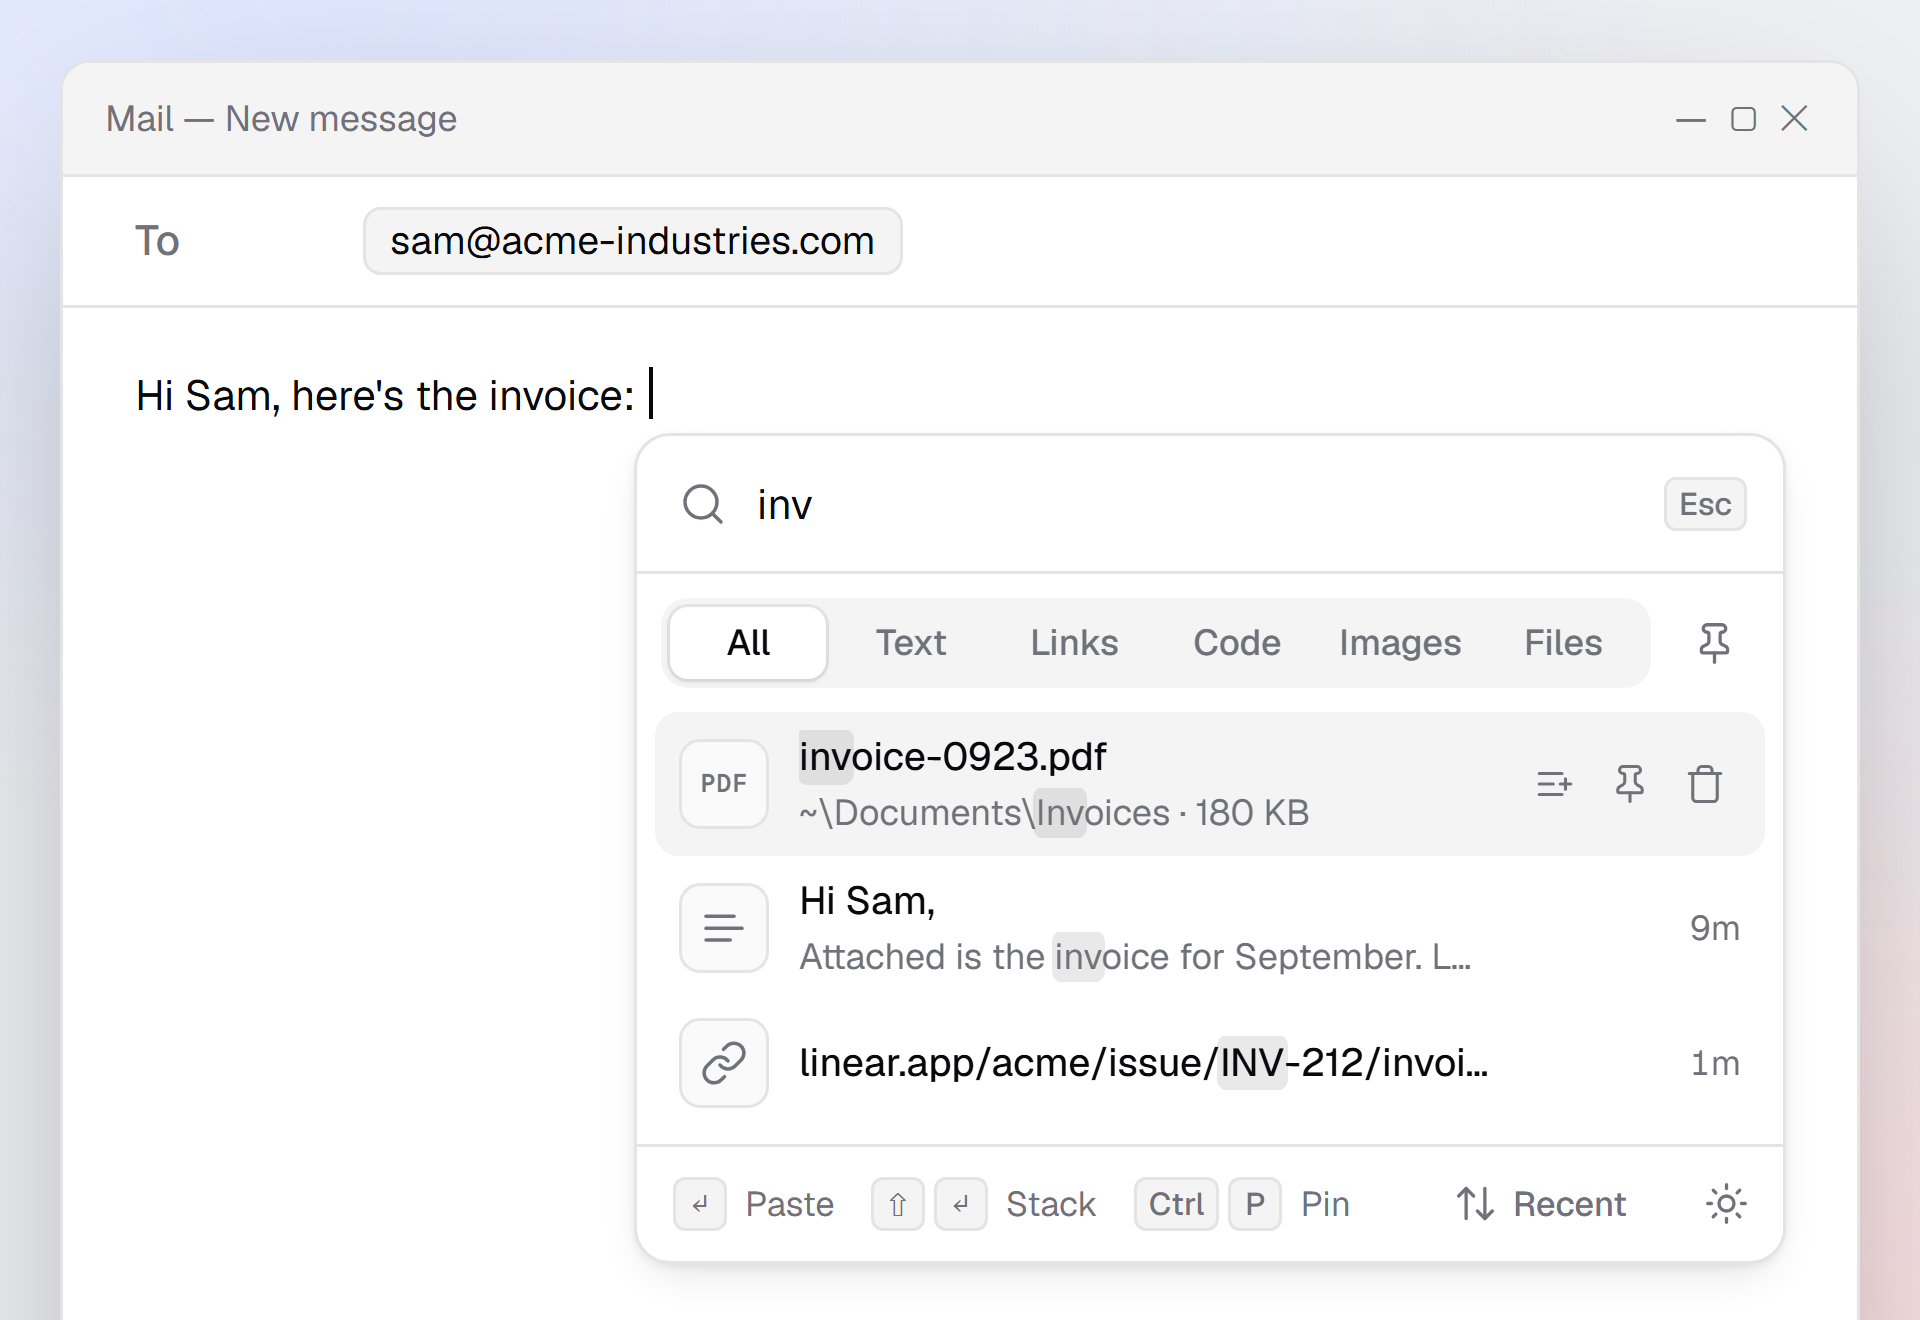
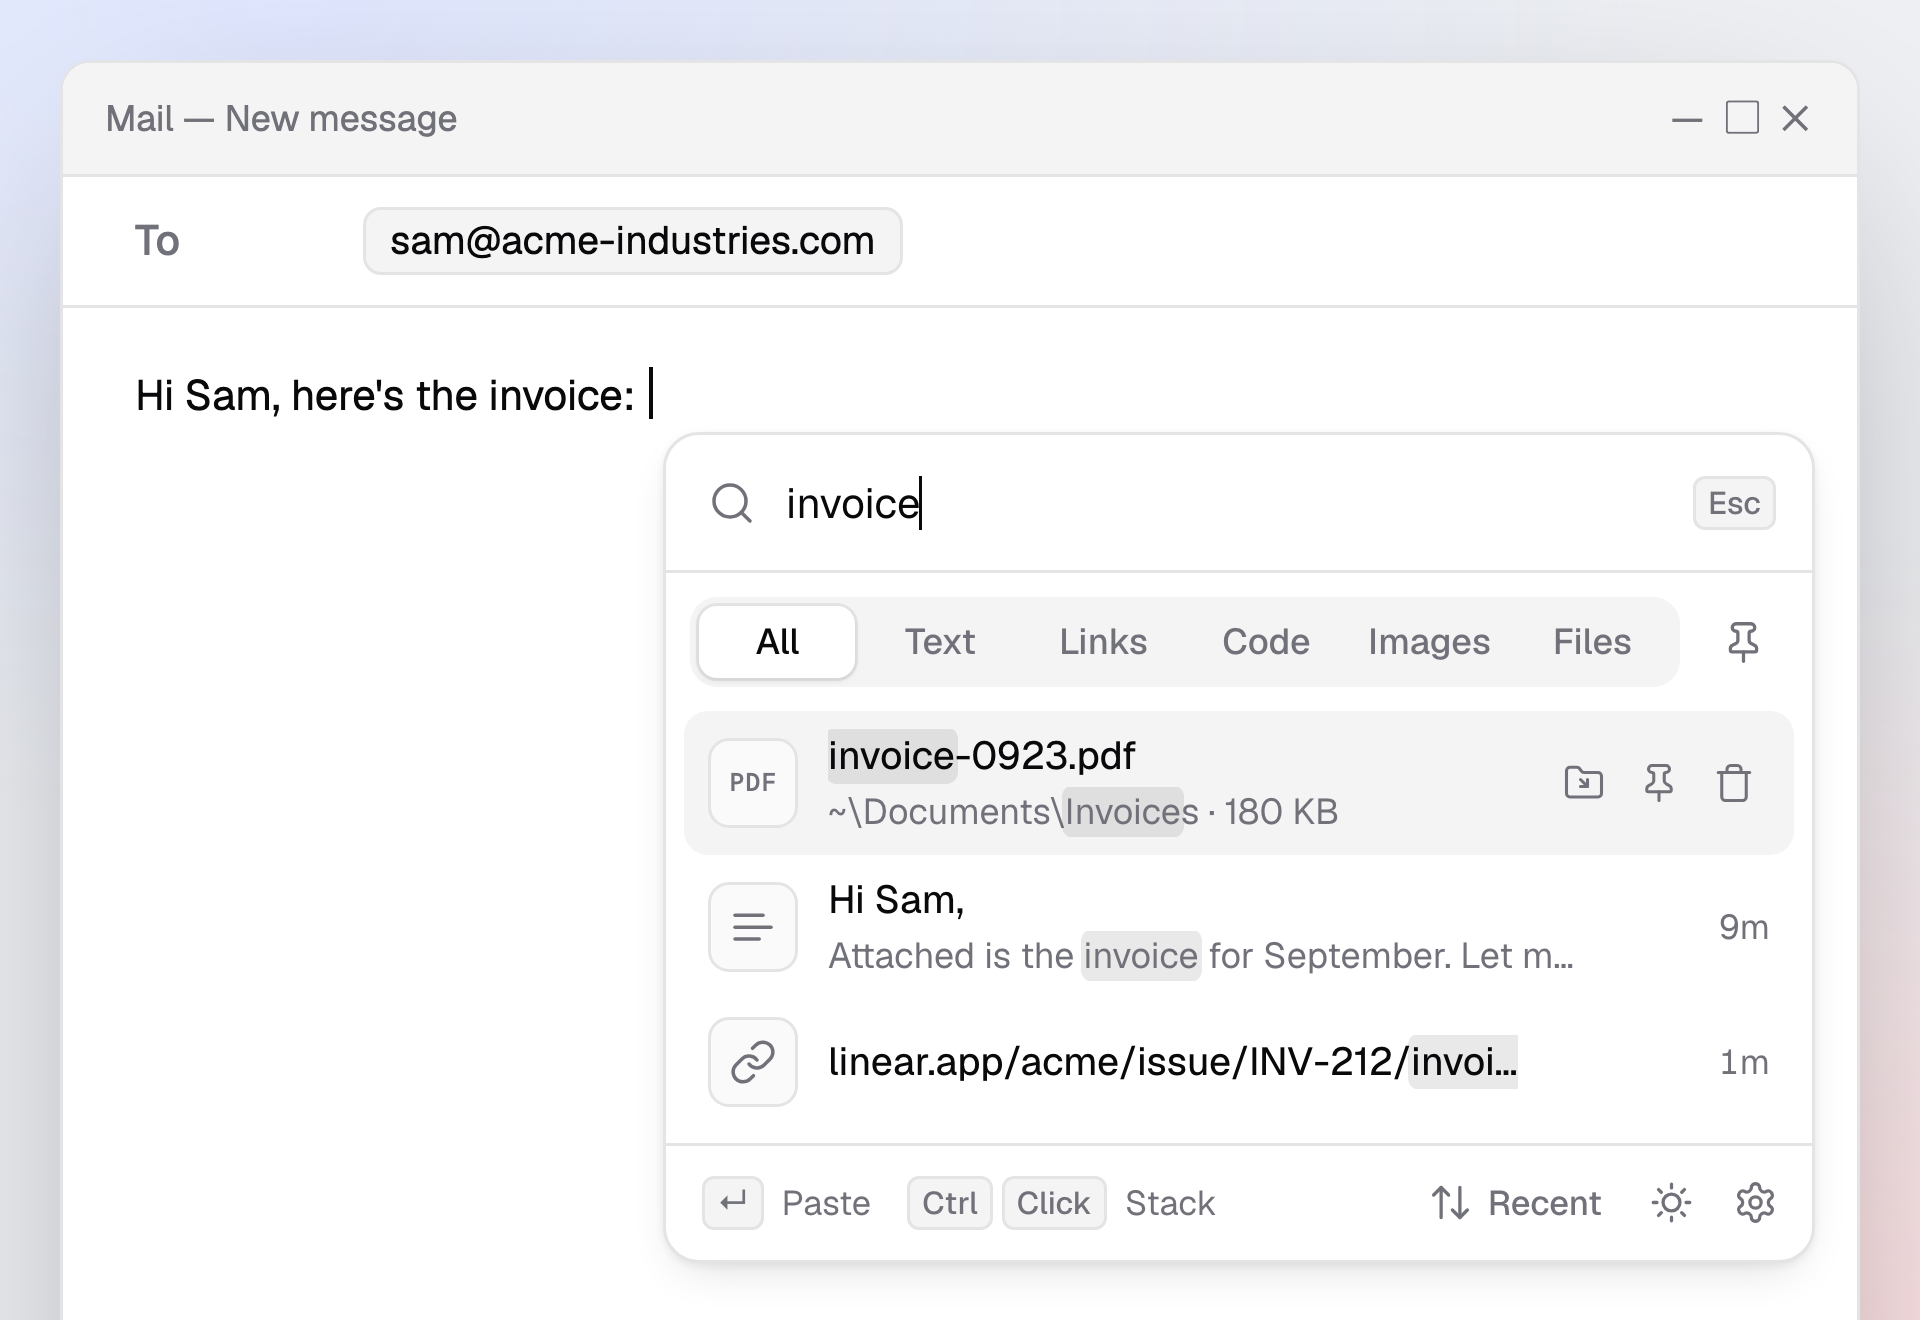
refresh README screenshots to match the app

diff --git a/docs/settings.html b/docs/settings.html
@@ -1,0 +1,24 @@
+<!doctype html>
+<html lang="en">
+<head>
+<meta charset="utf-8">
+<title>stash settings</title>
+<style>
+  html, body { width: 824px; height: 540px; }
+  body { margin: 0; position: relative; overflow: hidden; background: linear-gradient(90deg, #18181b 50%, #e4e4e7 50%); }
+  iframe { position: absolute; top: 0; border: 0; width: 416px; height: 540px; background: transparent; }
+</style>
+</head>
+<body>
+  <iframe src="../ui/index.html?os=win&theme=dark&view=settings" style="left: 0; color-scheme: dark"></iframe>
+  <iframe id="end" src="../ui/index.html?os=win&theme=light&view=settings" style="left: 408px; color-scheme: light"></iframe>
+  <script>
+    // The right popup shows the end of the page. Needs the scene served over http, so the frame is same-origin.
+    const end = document.getElementById('end');
+    end.addEventListener('load', () => setTimeout(() => {
+      const body = end.contentDocument && end.contentDocument.getElementById('prefs-body');
+      if (body) { body.scrollTop = body.scrollHeight; body.dispatchEvent(new Event('scroll')); }
+    }, 400));
+  </script>
+</body>
+</html>

diff --git a/docs/previews.html b/docs/previews.html
@@ -1,0 +1,16 @@
+<!doctype html>
+<html lang="en">
+<head>
+<meta charset="utf-8">
+<title>stash previews</title>
+<style>
+  html, body { width: 824px; height: 420px; }
+  body { margin: 0; position: relative; overflow: hidden; background: linear-gradient(90deg, #18181b 50%, #e4e4e7 50%); }
+  iframe { position: absolute; top: 0; border: 0; width: 416px; height: 420px; background: transparent; }
+</style>
+</head>
+<body>
+  <iframe src="../ui/index.html?os=win&theme=dark&tab=file" style="left: 0; color-scheme: dark"></iframe>
+  <iframe src="../ui/index.html?os=win&theme=light&tab=code" style="left: 408px; color-scheme: light"></iframe>
+</body>
+</html>

diff --git a/docs/showcase.html b/docs/showcase.html
@@ -10,7 +10,7 @@
 </style>
 </head>
 <body>
-  <iframe src="../ui/index.html?theme=dark&q=@image&sel=13" style="left: 0; color-scheme: dark"></iframe>
-  <iframe src="../ui/index.html?theme=light&q=@file%20!logo" style="left: 408px; color-scheme: light"></iframe>
+  <iframe src="../ui/index.html?os=win&theme=dark&q=@image&sel=13" style="left: 0; color-scheme: dark"></iframe>
+  <iframe src="../ui/index.html?os=win&theme=light&q=@file%20!logo" style="left: 408px; color-scheme: light"></iframe>
 </body>
 </html>

diff --git a/docs/stack.html b/docs/stack.html
@@ -41,7 +41,7 @@
     f.style.left = (r.left - 16) + 'px';
     f.style.top = (r.bottom + 10 - 16) + 'px';
     f.style.colorScheme = theme;
-    f.src = `../ui/index.html?theme=${theme}&stack=6,11,1,4&sel=1`;
+    f.src = `../ui/index.html?os=win&theme=${theme}&stack=6,11,1,4&sel=1`;
   </script>
 </body>
 </html>

diff --git a/docs/in-use.html b/docs/in-use.html
@@ -36,7 +36,7 @@
     f.style.left = (r.left - 16) + 'px';
     f.style.top = (r.bottom + 4 - 16) + 'px';
     f.style.colorScheme = theme;
-    f.src = `../ui/index.html?theme=${theme}&q=inv`;
+    f.src = `../ui/index.html?os=win&theme=${theme}&q=invoice`;
   </script>
 </body>
 </html>

diff --git a/README.md b/README.md
@@ -102,7 +102,9 @@ Just enough stays visible to tell what the clip is and which one:
 This only changes how the list shows them; pasting gives you the clip as it
 was copied. It also works on text recognized in screenshots.
 
-### Image files, fonts and SVG
+### Previews
+
+<p align="center"><img src="docs/previews.png" width="660" alt="file thumbnails and a font sample (dark), a code language badge, SVG markup and a blurred key (light)"></p>
 
 Copied image files (SVG, PNG, JPEG, GIF, WebP, BMP, ICO, AVIF, and on macOS
 also TIFF and HEIC) and copied SVG markup, as Figma and icon sites put it on the clipboard,
@@ -127,6 +129,8 @@ CSS gradients (`linear-gradient(…)`, `radial-…`, `conic-…`, also as a
 `background:` line) get a swatch, like colours do, and a clip of only emoji
 shows its first emoji large in place of the icon.
 
+### Pins, actions and menus
+
 The pin button next to the tabs shows pinned clips only. Hover a row for its
 quick actions: open a link in your browser, show a file in Explorer or Finder, copy code
 as a fenced block, copy a colour as HEX, RGB or HSL, pin or delete.
@@ -137,6 +141,8 @@ capturing, start with Windows / open at login, clear history (keeps pinned),
 settings, quit.
 
 ### Settings
+
+<p align="center"><img src="docs/settings.png" width="660" alt="the settings page, dark and light"></p>
 
 The gear in the footer (or `Ctrl+,`) turns the popup into a small settings
 page: the shortcut (click it and press a new one), start with Windows / open at
@@ -218,8 +224,23 @@ Actions (artifacts `stash-windows` and `stash-macos`), so you don't need a
 local toolchain.
 
 Tests: `node ui/search.test.js`, `node ui/secrets.test.js` and `cd src-tauri && cargo test --lib`.
-`ui/index.html` also opens in a plain browser with demo data for UI work;
-`docs/showcase.html`, `docs/in-use.html` and `docs/stack.html` are the scenes for the screenshots.
+`ui/index.html` also opens in a plain browser with demo data for UI work.
+
+The screenshots come from the scenes in `docs/` (`in-use`, `stack`,
+`showcase`, `previews`, `settings`), which show the popup with that demo data.
+Serve the repository over http (the settings scene scrolls its right popup,
+which a `file://` page isn't allowed to do) and render each one with headless
+Chrome at 3×, at the size its `body` sets:
+
+```sh
+python3 -m http.server 8000 &
+chrome --headless=new --hide-scrollbars --force-device-scale-factor=3 \
+  --window-size=824,540 --virtual-time-budget=12000 \
+  --screenshot=docs/settings.png http://localhost:8000/docs/settings.html
+```
+
+`in-use.html` takes `?theme=light` and `stack.html` `?theme=dark`. If a
+thumbnail is missing in a shot, render it again; they are drawn after the list.
 
 ## Known limits
 
@@ -243,4 +264,4 @@ Tests: `node ui/search.test.js`, `node ui/secrets.test.js` and `cd src-tauri && 
   has not been run on a real Windows desktop yet, so expect to tweak placement
   and focus behaviour.
 
-UI font: [Geist](https://github.com/vercel/geist-font) (SIL OFL, `ui/fonts`). Icons: [Lucide](https://lucide.dev) (ISC).
+UI font: [Geist](https://github.com/vercel/geist-font) (SIL OFL, `ui/fonts`). Icons: [Lucide](https://lucide.dev) (ISC), except the theme sun and moon, which are drawn for stash.
